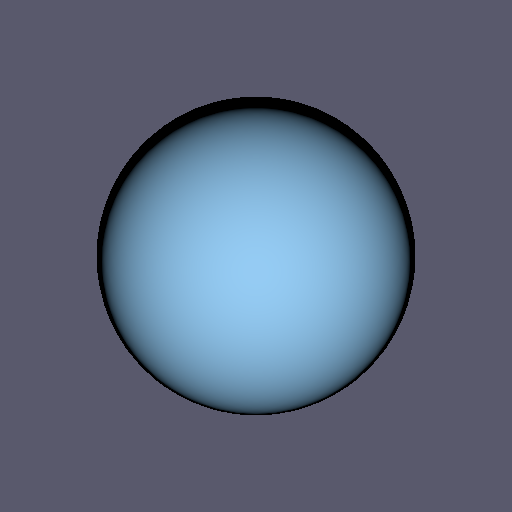
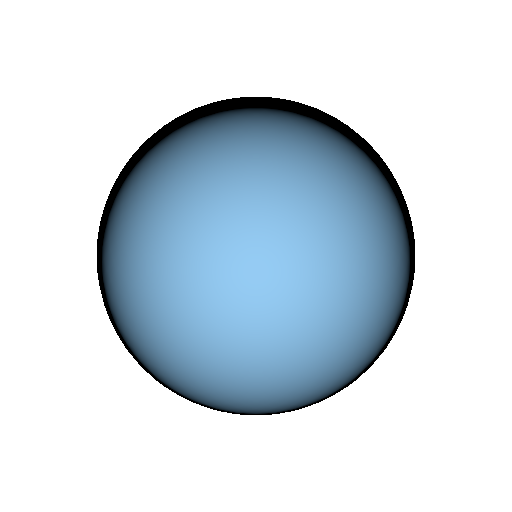
docs: README sphere rendered on a white background
Claude-Session: https://claude.ai/code/session_01XxmpNYBqiDKwYThVp9fZoL

diff --git a/README.md b/README.md
@@ -96,18 +96,20 @@ scene <- scene_add_mesh(scene, mesh)
 shell <- material_solid("shell", c(0.3, 0.6, 0.9))
 scene <- scene_add_material(scene, shell)
 
-fr_render(scene, "sphere.png")
+fr_render(scene, "sphere.png", background = c(1, 1, 1, 1))
 ```
 
 <p align="center">
 
-<img src="man/figures/README-sphere.png" alt="A light blue shaded sphere on a grey-blue background, rendered at 512 by 512 pixels" width="320">
+<img src="man/figures/README-sphere.png" alt="A light blue shaded sphere on a white background, rendered at 512 by 512 pixels" width="320">
 </p>
 
 `sphere_volume()` returns a signed-distance field on a 30 by 30 by 30
 grid, which is zero on the sphere’s surface, so `iso_value = 0` extracts
 the sphere. A material is linked to a mesh by its name (`"shell"` here).
-The image is 512 by 512 pixels unless `width` and `height` are set.
+The image is 512 by 512 pixels unless `width` and `height` are set, and
+`background` takes the red, green, blue and alpha values of the
+backdrop, each from 0 to 1.
 
 ## Building scenes
 
